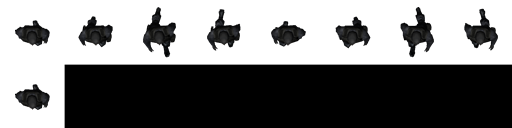
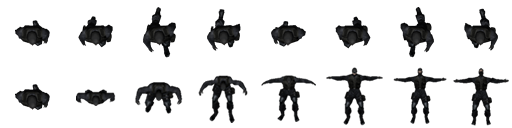
Implemented bullet strength, Implemented animation looping and not looping Implemented enemy dying.

diff --git a/Horde/Horde/enemy/enemyzombie.cpp b/Horde/Horde/enemy/enemyzombie.cpp
@@ -24,6 +24,7 @@ bool CEnemyZombie::Create(
 		return false;
 
 	m_entity->AddAnimation("walk", 0, 9);
+	m_entity->AddAnimation("dead", 10, 16, false);
 	m_entity->SetCurrentAnimation("walk");
 
 	m_entity->SetPosition(static_cast<float>(startX), static_cast<float>(startY));
@@ -39,23 +40,34 @@ void CEnemyZombie::Update(
 	if (!m_entity->IsVisible())
 		return;
 
+	if (m_health <= 0)
+		m_speed = 0.0f;
+
 	TVector<float, 2> moveDirection;
 	moveDirection.Set(132 - m_entity->GetPosition().x(), 96 - m_entity->GetPosition().y());
 	moveDirection.Normalize2D();
-	moveDirection.Scale(m_speed); // speed
+	moveDirection.Scale(m_speed);
 
-	const float alpha = static_cast<float>(132 - m_entity->GetPosition().x()) / static_cast<float>(96 - m_entity->GetPosition().y());
-	const float radAngle = atan(alpha);
-	int rotation = static_cast<int>(radAngle * 57.0f);
+	if (m_health > 0)
+	{
+		const float alpha = static_cast<float>(132 - m_entity->GetPosition().x()) / static_cast<float>(96 - m_entity->GetPosition().y());
+		const float radAngle = atan(alpha);
+		int rotation = static_cast<int>(radAngle * 57.0f);
 
-	if (m_entity->GetPosition().y() > 96)
-		rotation += 180;
+		if (m_entity->GetPosition().y() > 96)
+			rotation += 180;
 
-	m_entity->SetRotation(rotation);
+		m_entity->SetRotation(rotation);
+	}
 
 	m_entity->SetPosition(
 		(m_entity->GetPosition().x() + moveDirection.x()) - backGroundX, 
 		(m_entity->GetPosition().y() + moveDirection.y()) - backGroundY
 	);
 
+}
+
+void CEnemyZombie::OnDeath()
+{
+	m_entity->SetCurrentAnimation("dead");
 }

diff --git a/Horde/lasagne/lasagne-entity.cpp b/Horde/lasagne/lasagne-entity.cpp
@@ -92,13 +92,19 @@ void CLasagneEntity::Render(
             if (m_currentAnimation.length() == 0)
             {
                 if (m_currentFrame >= (m_noofFramesX * m_noofFramesY))
-                    m_currentFrame = 0;
+					m_currentFrame = 0;
             }
             else
             {
-                IVec2 frames = m_animation[m_currentAnimation];
+				const AnimationData &animData = m_animation[m_currentAnimation];
+                IVec2 frames = animData.frames;
                 if (m_currentFrame >= frames.y())
-                    m_currentFrame = frames.x();
+				{
+					if (animData.loop)
+						m_currentFrame = frames.x();
+					else
+						m_currentFrame = frames.y() - 1;
+				}
             }
         }
 
@@ -130,12 +136,15 @@ void CLasagneEntity::Render(
 bool CLasagneEntity::AddAnimation(
         const char *name,               //!<
         const int frameStart,           //!<
-        const int frameEnd              //!<
+        const int frameEnd,             //!<
+		const bool loop
     )
 {
-    IVec2 frames;
-    frames.Set(frameStart, frameEnd);
-    m_animation[name] = frames;
+	AnimationData data;
+	data.frames.Set(frameStart, frameEnd);
+	data.loop = loop;
+
+    m_animation[name] = data;
 
     return true;
 }
@@ -146,7 +155,7 @@ void CLasagneEntity::SetCurrentAnimation(
 {
     if (strcmp(animation, m_currentAnimation.c_str()) != 0)
     {
-        IVec2 frames = m_animation[animation];
+        IVec2 frames = m_animation[animation].frames;
         m_currentFrame = frames.x();
     }
 

diff --git a/Horde/Horde/guns/gunbase.cpp b/Horde/Horde/guns/gunbase.cpp
@@ -40,18 +40,25 @@ void CGunBase::Shoot(
 	static const int NoofBullets = m_bullet.size();
 	for (int bulletIndex = 0; bulletIndex < NoofBullets; ++bulletIndex)
 	{
-		m_bullet[bulletIndex]->Update();
+		CBulletBase *const bullet = m_bullet[bulletIndex];
+		bullet->Update();
 		for (unsigned int enemyIndex = 0; enemyIndex < enemy.size(); ++enemyIndex)
 		{
 			CEnemyBase *const currentEnemy = enemy[enemyIndex];
+
+			// don't check against invisible enemies
 			if (!currentEnemy->GetEntity()->IsVisible())
 				continue;
 
-			if (m_bullet[bulletIndex]->CheckCollision(currentEnemy->GetEntity()))
+			// don't check against dead enemies
+			if (currentEnemy->GetHealth() <= 0)
+				continue;
+
+			if (bullet->CheckCollision(currentEnemy->GetEntity()))
 			{
-				currentEnemy->GetEntity()->SetVisible(false); // just one hit kill enemies for now
-				//currentEnemy->Damage(10); // should pass in bullet strength
-				m_bullet[bulletIndex]->Destroy();
+				//currentEnemy->GetEntity()->SetVisible(false); // just one hit kill enemies for now
+				currentEnemy->Damage(bullet->GetPower()); // should pass in bullet strength
+				bullet->Destroy();
 			}
 		}		
 	}

diff --git a/Horde/lasagne/lasagne-entity.h b/Horde/lasagne/lasagne-entity.h
@@ -24,11 +24,13 @@ private:
     Uint32                                  m_lastFrameTime;
     std::string                             m_currentAnimation;
 
-    typedef TVector<int, 2>                 IVec2;
-    std::map<std::string, IVec2>            m_animation;
+	struct AnimationData {
+		TVector<int, 2> frames;
+		bool loop;
+	};
+    std::map<std::string, AnimationData>    m_animation;
 
-    IVec2                                   m_frameSize;
-
+    TVector<int, 2>                         m_frameSize;
 	bool									m_visible;
 
 public:
@@ -97,7 +99,8 @@ public:
     bool                    AddAnimation(
                                 const char *name,               //!<
                                 const int frameStart,           //!<
-                                const int frameEnd              //!<
+                                const int frameEnd,             //!<
+								const bool loop = true			//!< 
                             );
 
                             //!

diff --git a/Horde/Horde/enemy/enemybase.h b/Horde/Horde/enemy/enemybase.h
@@ -8,6 +8,7 @@ protected:
 
 	CLasagneEntity                  *m_entity;					//!<
 	float							m_speed;					//!< The speed of the enity
+	int								m_health;					//!< Howmuch health the enemy has
 
 public:
 									//!
@@ -28,12 +29,25 @@ public:
 										int backGroundY
 									) = 0;
 
+									//! Called when an enemy dies
+	virtual void					OnDeath() = 0;
+
 									//! 
 	CLasagneEntity					*GetEntity() const
 									{
 										return m_entity;
 									}
 
+									//! Get the enemies health
+	const int						GetHealth() const
+									{
+										return m_health;
+									}
+
+									//! Damage an enemy by a given amount
+	void							Damage(
+										int amount										//!< THe amount of damage to do
+									);
 };
 
 #endif

diff --git a/Horde/main.cpp b/Horde/main.cpp
@@ -22,16 +22,16 @@ int main (int argc, char *argv[])
     CScene *currentScene = new CScene();
     currentScene->Load("./media/graphics/level-1/");
 
-    CPlayer *player = new CPlayer();
-    player->Load("./media/graphics/characters/player.png");
-
 	std::vector<CEnemyBase*> enemy;
-	for (int zombieIndex = 0; zombieIndex < 100; ++zombieIndex)
+	for (int zombieIndex = 0; zombieIndex < 10; ++zombieIndex)
 	{
 		CEnemyZombie *zombieTest = new CEnemyZombie();
 		zombieTest->Create(zombieIndex * 64, -100);
 		enemy.push_back(zombieTest);
 	}
+
+	CPlayer *player = new CPlayer();
+	player->Load("./media/graphics/characters/player.png");
 
     Uint32 updateTimer = SDL_GetTicks();
 

diff --git a/Horde/Horde/enemy/enemybase.cpp b/Horde/Horde/enemy/enemybase.cpp
@@ -2,11 +2,23 @@
 
 CEnemyBase::CEnemyBase() :
 	m_entity(NULL),
-	m_speed(1.0f)
+	m_speed(1.0f),
+	m_health(100)
 {
 }
 
 CEnemyBase::~CEnemyBase()
 {
 
+}
+
+void CEnemyBase::Damage( 
+		int amount								/*!< The amount of damage to do */ 
+	)
+{
+	m_health -= amount;
+	if (m_health <= 0)
+	{
+		OnDeath();
+	}
 }

diff --git a/Horde/Horde/guns/bulletpistol.h b/Horde/Horde/guns/bulletpistol.h
@@ -24,6 +24,12 @@ public:
 	virtual void			Fire(
 								CLasagneEntity *gun
 							);
+
+							//! The power of the bullet (represents the damage done to an enemy on contact)
+	virtual int				GetPower() const
+							{
+								return 350;
+							}
 };
 
 #endif

diff --git a/Horde/Horde/guns/bulletbase.h b/Horde/Horde/guns/bulletbase.h
@@ -42,6 +42,9 @@ public:
 							//! 
 	virtual void			Destroy();
 
+							//! The power of the bullet (represents the damage done to an enemy on contact)
+	virtual int				GetPower() const = 0;
+
 };
 
 #endif

diff --git a/Horde/Horde/enemy/enemyzombie.h b/Horde/Horde/enemy/enemyzombie.h
@@ -25,6 +25,9 @@ public:
 										int backGroundY
 									);
 
+									//! Called when an enemy dies
+	virtual void					OnDeath();
+
 };
 
 #endif

diff --git a/Horde/SOGI/SOGITypes.h b/Horde/SOGI/SOGITypes.h
@@ -158,4 +158,6 @@ public:
 						}
 };
 
+typedef TVector<int, 2> IVec2;
+
 #endif
